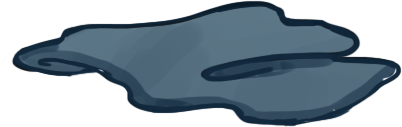
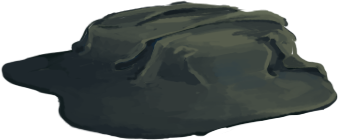
Replaced rough items with finished items in tent

diff --git a/src/States/TentState.cs b/src/States/TentState.cs
@@ -73,9 +73,9 @@ namespace GGJ2013
 
 			Blanket.OnClick += t =>
 			{
-				var that = this;
-				that.BlanketClicked = true;
-				that.Blanket.IsActive = false;
+				Blanket.IsActive = false;
+				Blanket.Texture = G.C.Load<Texture2D> ("TentArea/tossedblanket");
+				Sweater.IsActive = true;
 			};
 
 			Blanket.IsActive = true;
@@ -124,52 +124,46 @@ namespace GGJ2013
 			ItemsToLeave.Add("Sweater");
 			ItemsToLeave.Add("Flashlight");
 
-			lantern = CreateSprite ("TentArea/lantern", 520, 0);
+			lantern = CreateSprite ("TentArea/lantern", 510, 89);
 			light1 = CreateSprite ("TentArea/light1");
 			light2 = CreateSprite ("TentArea/light2");
+			glow = CreateSprite ("TentArea/lanternGlow", 370, 140);
 
-			Hotspots.Add(new Hotspot("Unlit Lantern",
+			LanternSpot = new Hotspot("Unlit Lantern",
 				new Circlegon(545, 315, 64), t =>
 			{
-				var that = this;
-				that.light1.IsVisible = false;
-				that.light2.IsVisible = true;
-			}));
+				LanternSpot.Name = "Lit Lantern";
+				light1.IsVisible = false;
+				light2.IsVisible = true;
+				//glow.IsVisible = true;
+			});
 
 			light1.IsVisible = true;
 			light2.IsVisible = false;
+			glow.IsVisible = false;
 
 			Items.Add (Flash);
 			Items.Add (Sweater);
 			Items.Add (Blanket);
 
-			Lights.Add(lantern);
-			Lights.Add(light1);
-			Lights.Add(light2);
+			Lights.Add (lantern);
+			Lights.Add (light1);
+			Lights.Add (light2);
+			Lights.Add (glow);
 
-			Hotspots.Add(Exit);
-			Hotspots.Add(Bag);
+			Hotspots.Add (Exit);
+			Hotspots.Add (LanternSpot);
+			Hotspots.Add (Bag);
 		}
 
 		protected override void OnLevelComplete()
 		{
-			G.DialogManager.PostMessage("YAY YOU WIN", TimeSpan.Zero, TimeSpan.FromSeconds(5), Color.Red);
+			//G.DialogManager.PostMessage("YAY YOU WIN", TimeSpan.Zero, TimeSpan.FromSeconds(5), Color.Red);
 		}
 
 		public override void Update(GameTime gameTime)
 		{
 			base.Update(gameTime);
-
-			if (BlanketClicked)
-			{
-				CurrentBlanketMoveTime += (float)gameTime.ElapsedGameTime.TotalSeconds;
-				Blanket.Location = Vector2.SmoothStep(Blanket.Location, BlanketDestination, CurrentBlanketMoveTime / BlanketMoveTime);
-				if (CurrentBlanketMoveTime >= BlanketMoveTime - 3)
-				{
-					BlanketClicked = false;
-					Sweater.IsActive = true;
-				}
-			}
 
 		}
 
@@ -188,11 +182,13 @@ namespace GGJ2013
 		private Sprite lantern;
 		private Sprite light1;
 		private Sprite light2;
+		private Sprite glow;
 
 		public GameItem Sweater;
 		public GameItem Blanket;
 		public GameItem Flash;
 
+		public Hotspot LanternSpot;
 		public Hotspot Exit;
 		public Hotspot Bag;
 

diff --git a/src/States/MemoryState.cs b/src/States/MemoryState.cs
@@ -261,7 +261,7 @@ namespace GGJ2013.States
 			CanLeaveLevel = (ItemsToLeave.Count == 0);
 			IsLevelComplete = (ItemsToRemember.Count == 0);
 
-			item.Clicked(this);
+			item.Clicked (this);
 
 			if (IsLevelComplete) {
 				IsLevelComplete = true;
